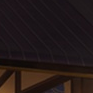
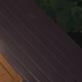
Merge pull request #688 from wanniwa/dev
fix:修复因为更换检查商店页面的图片，对应位置出现神秘商店老板问题

diff --git a/tasks/GameUi/assets.py b/tasks/GameUi/assets.py
@@ -153,7 +153,7 @@ class GameUiAssets:
 	# description 
 	I_CHECK_DAILY = RuleImage(roi_front=(27,515,69,62), roi_back=(1,489,155,127), threshold=0.8, method="Template matching", file="./tasks/GameUi/page/page_check_daily.png")
 	# description 
-	I_CHECK_MALL = RuleImage(roi_front=(11,493,93,93), roi_back=(11,493,93,93), threshold=0.8, method="Template matching", file="./tasks/GameUi/page/page_check_mall.png")
+	I_CHECK_MALL = RuleImage(roi_front=(147,527,82,82), roi_back=(147,527,82,82), threshold=0.8, method="Template matching", file="./tasks/GameUi/page/page_check_mall.png")
 	# description 
 	I_CHECK_GUILD = RuleImage(roi_front=(1072,630,49,46), roi_back=(1072,630,49,46), threshold=0.8, method="Template matching", file="./tasks/GameUi/page/page_check_guild.png")
 	# description 
